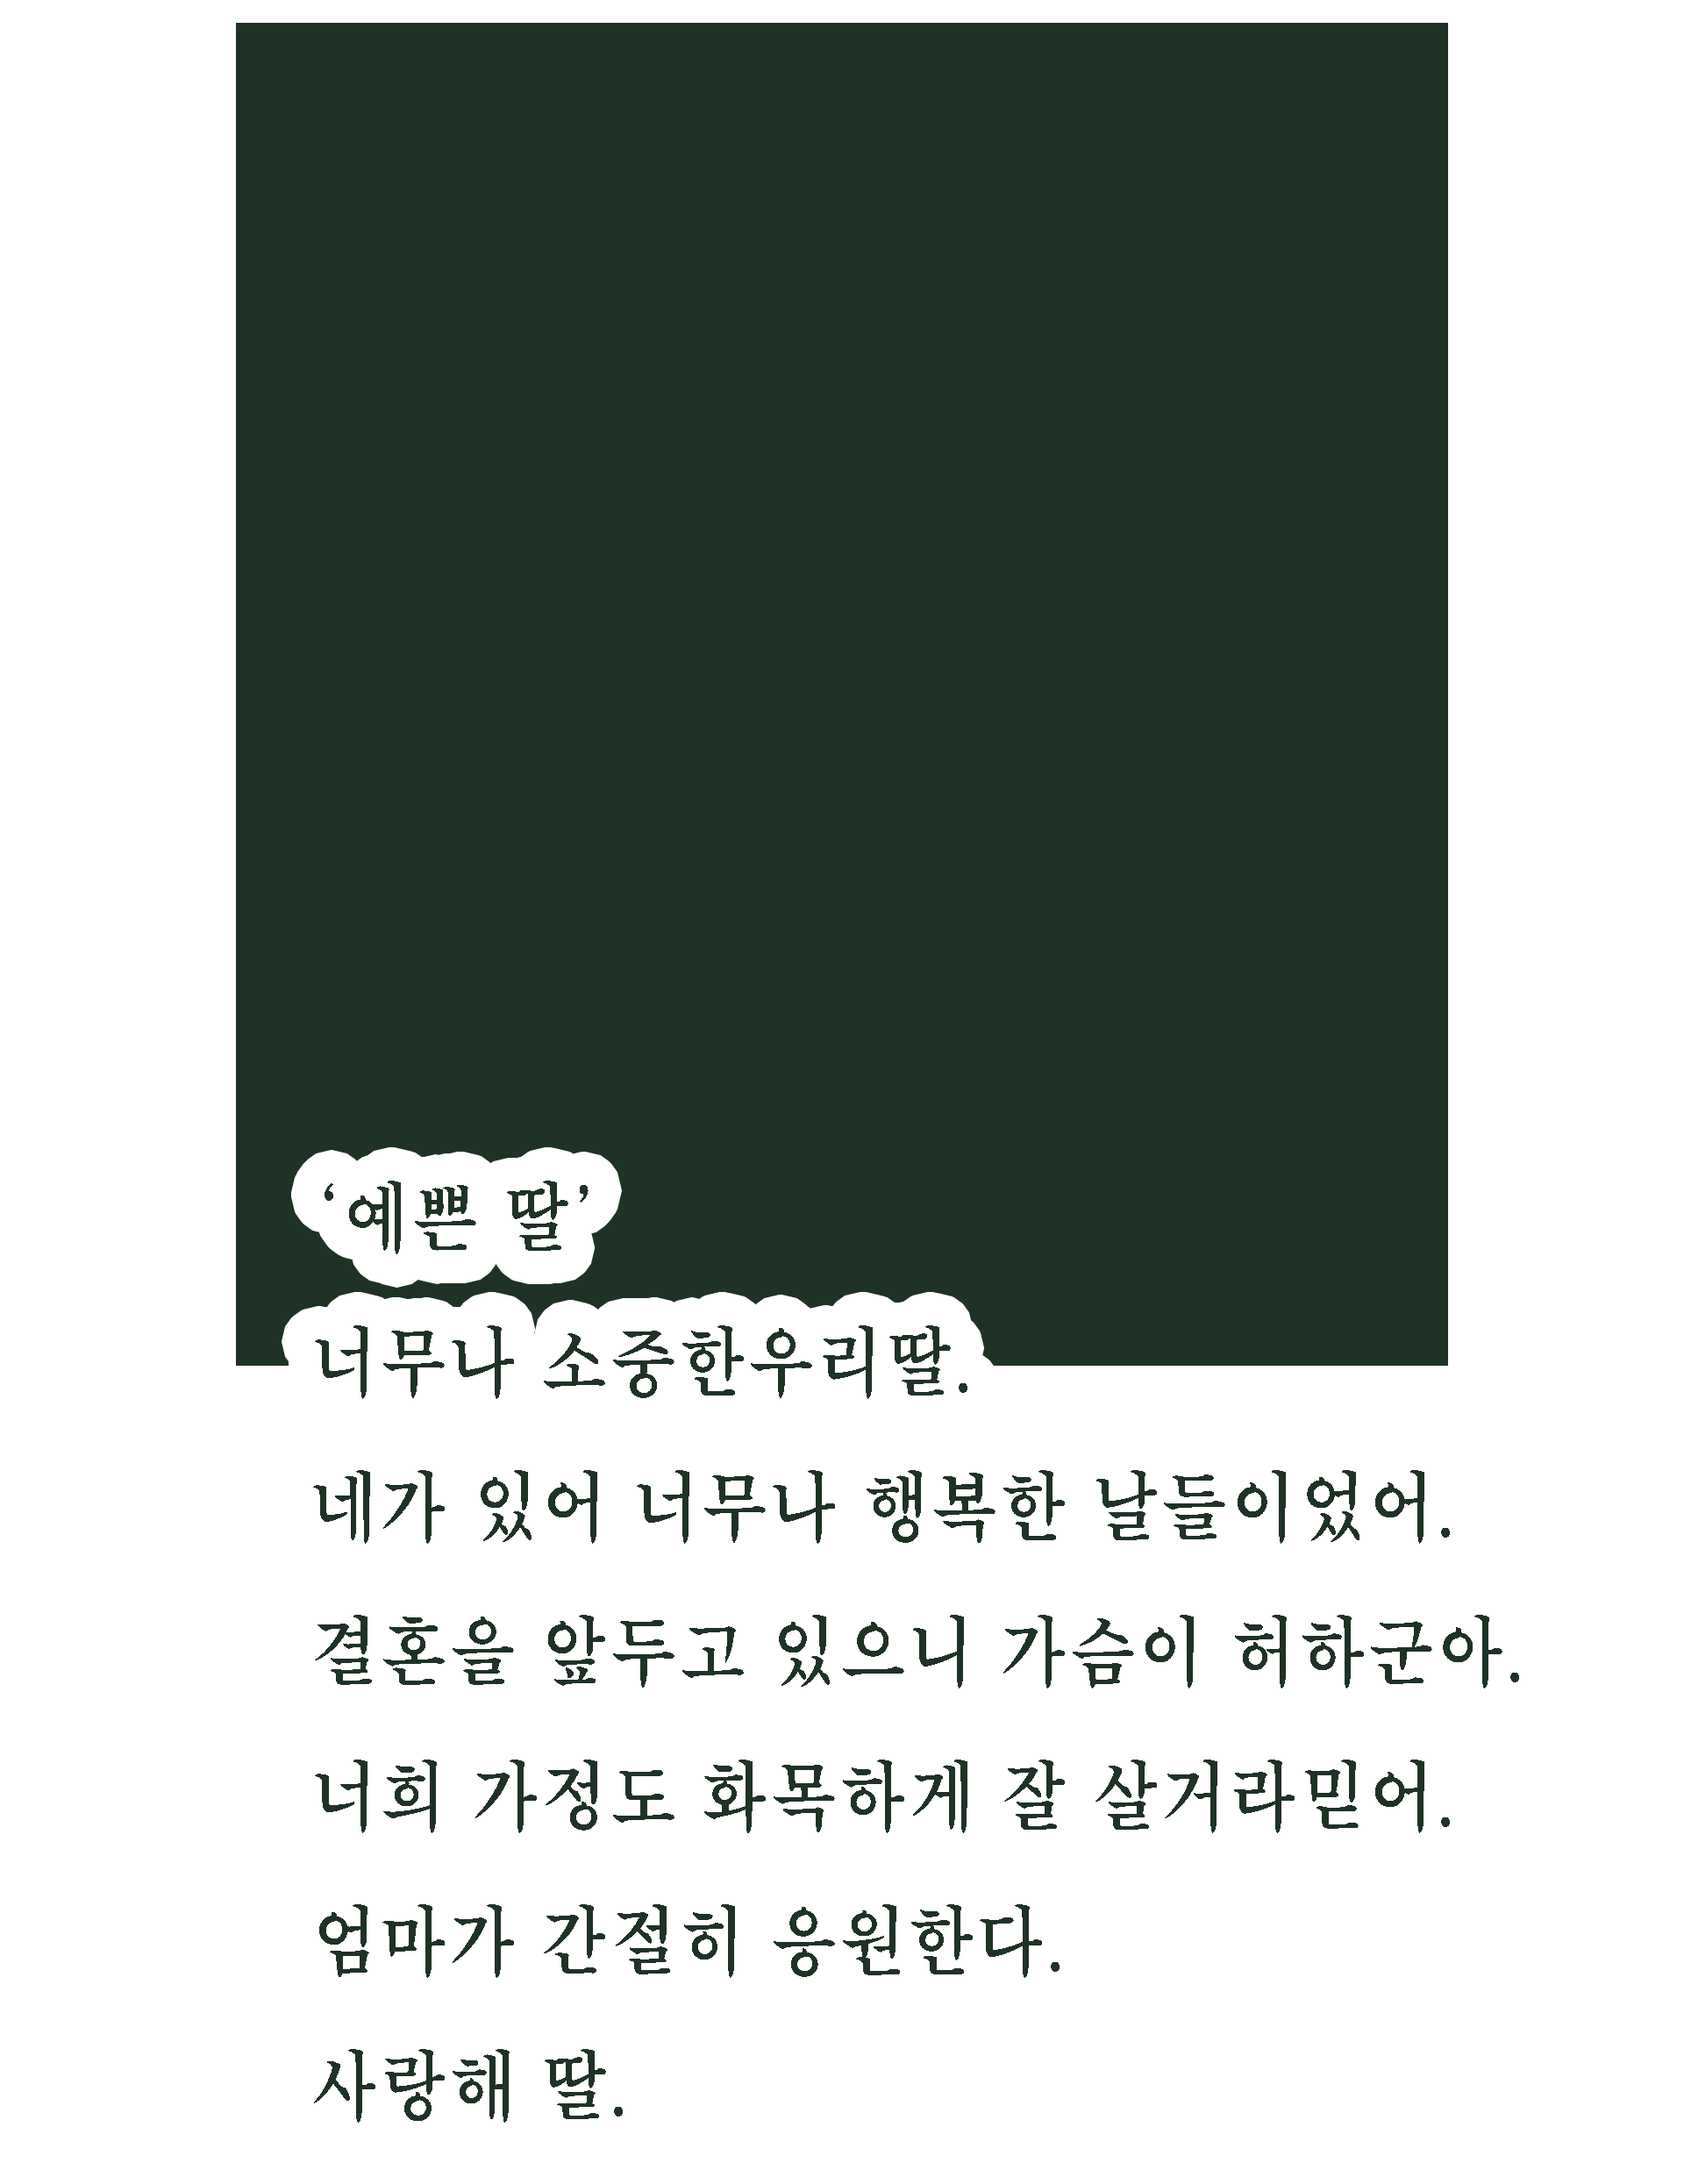
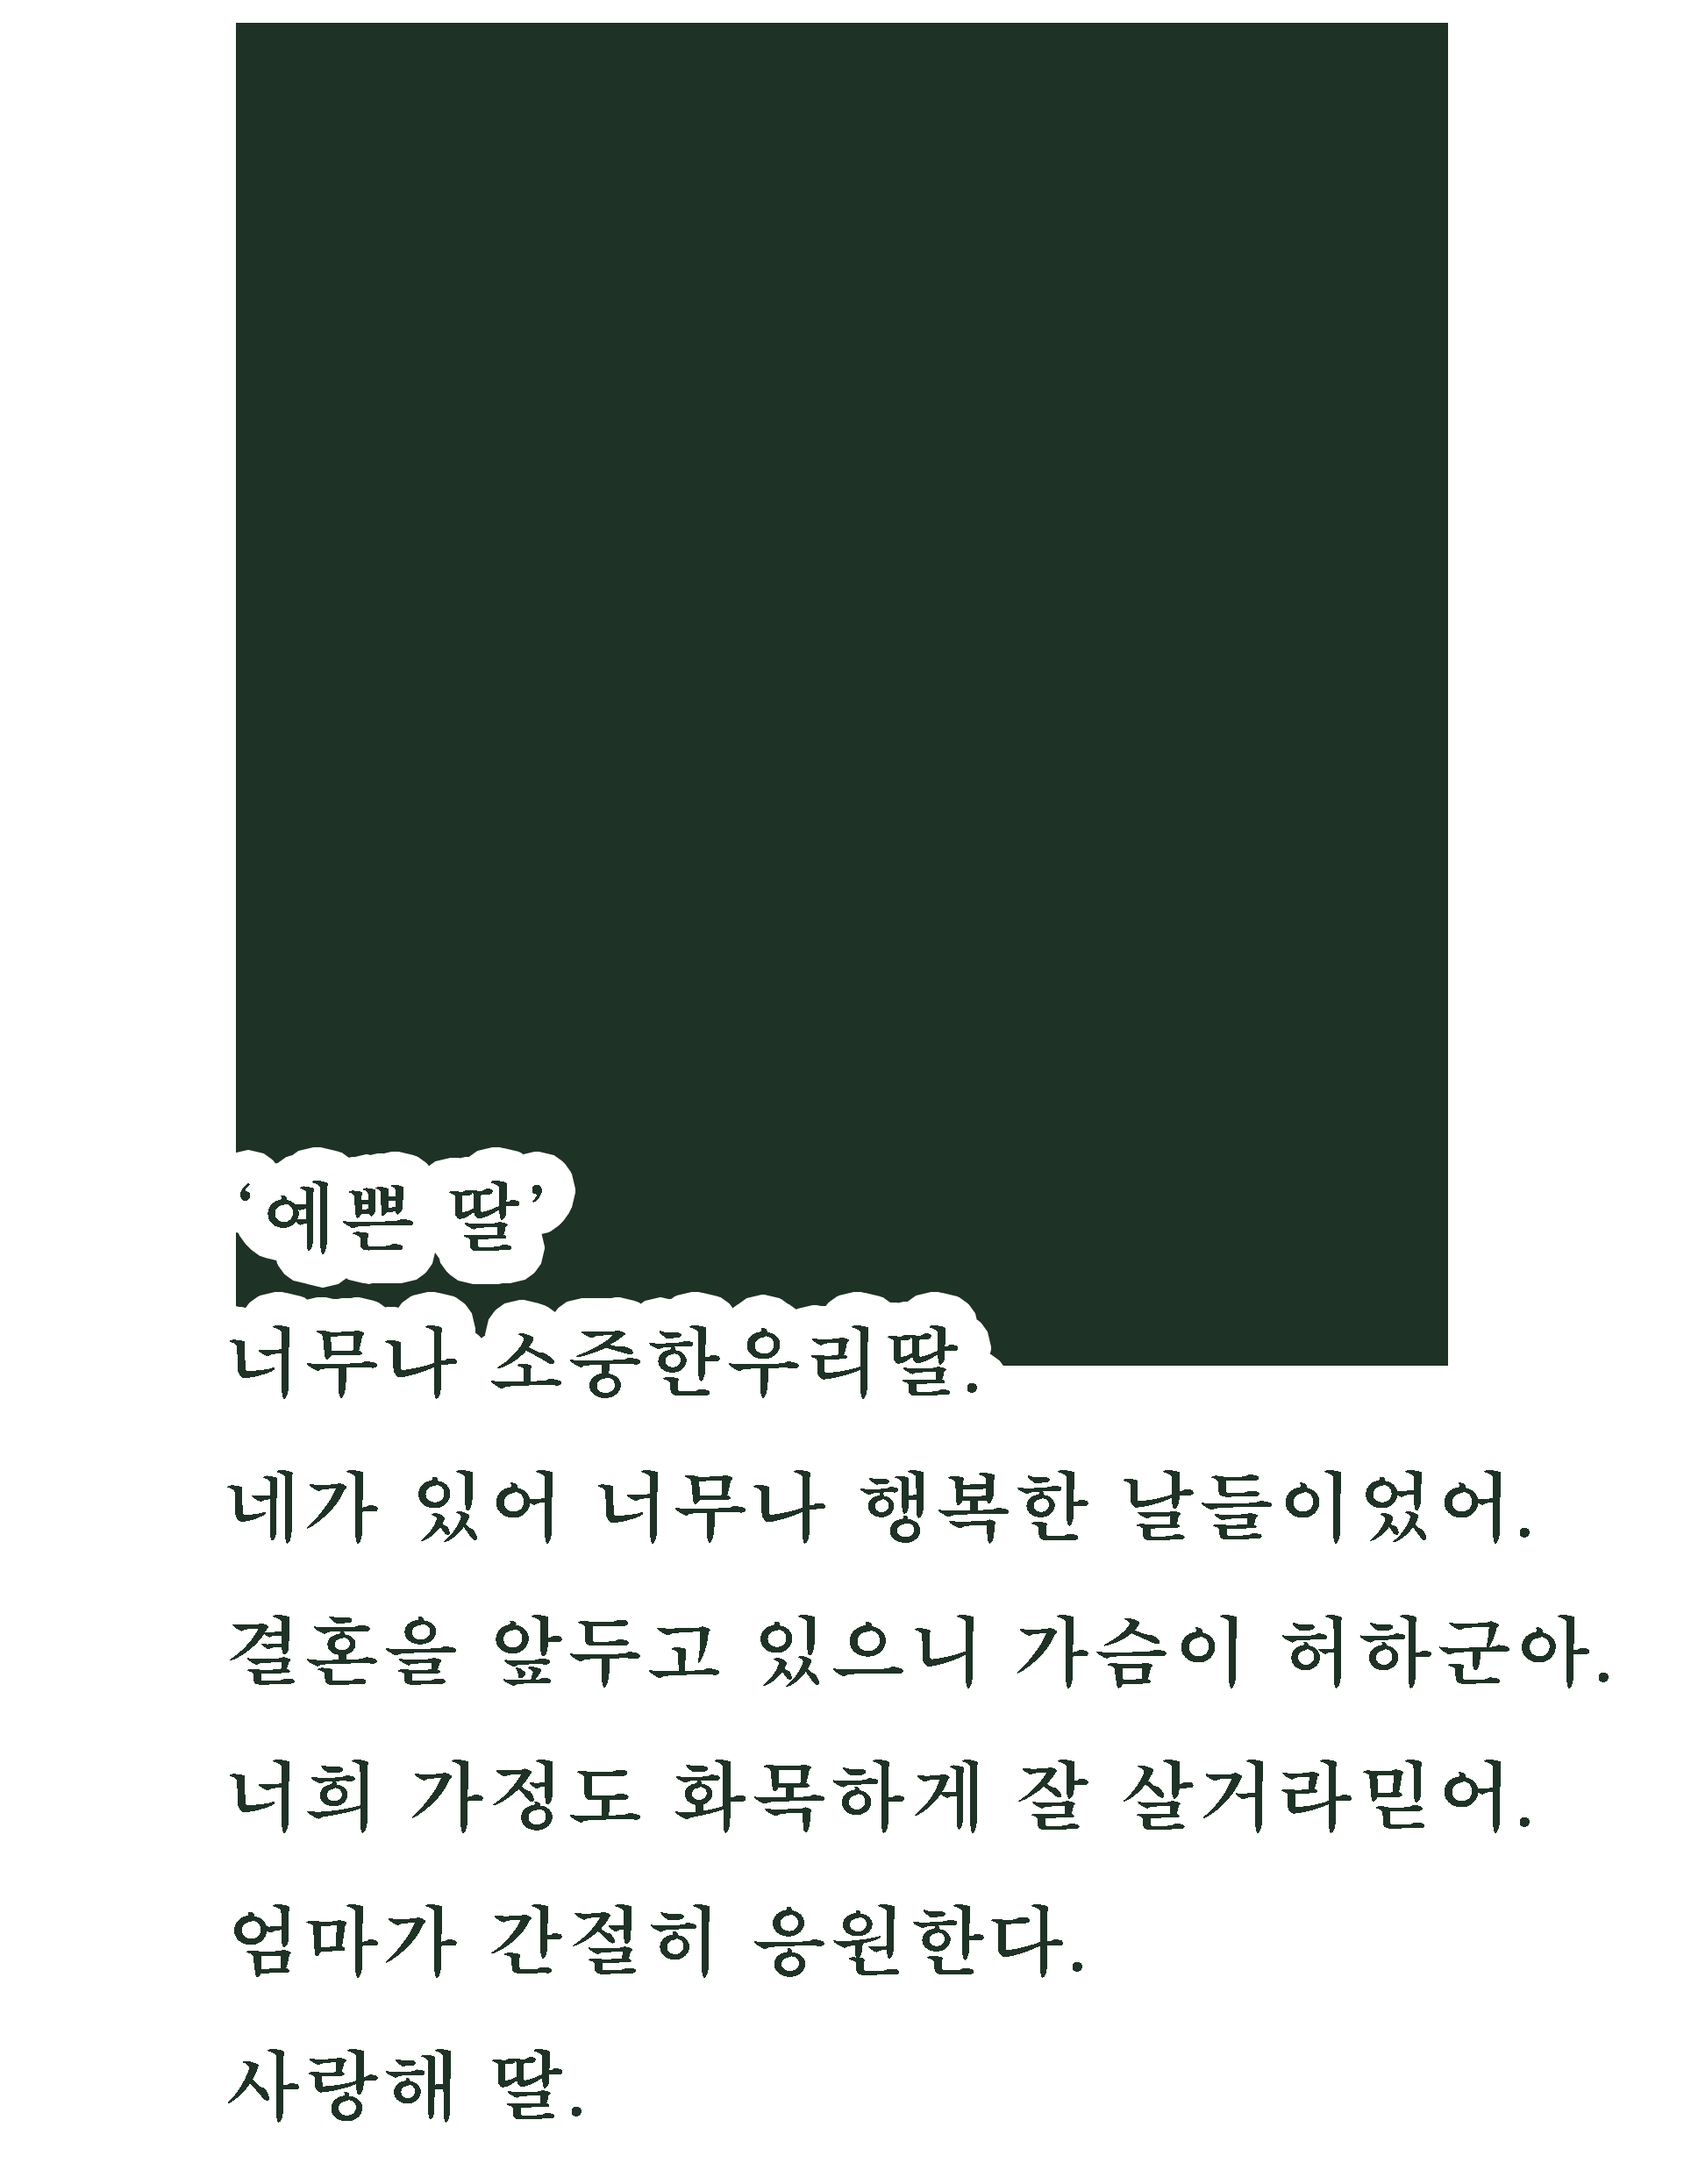
Add files via upload

diff --git a/sunghunheeae/index.html b/sunghunheeae/index.html
@@ -16,22 +16,31 @@
     <meta property="og:title" content="sunghunheeae" />
     <meta property="og:description" content="sunghunheeae" />
     <meta property="og:keyword" content="sunghunheeae" />
-    <meta property="og:image" content="image/favicon/ogthumb.png" />
+    <meta property="og:image" content="image/ogthumb.jpg" />
     <meta property="og:url" content="http://hheeaaee.github.io/sunghunheeae" />
+
+    <!-- LightGallery CSS -->
+    <link rel="stylesheet" href="https://cdn.jsdelivr.net/npm/lightgallery@2.7.1/css/lightgallery-bundle.min.css" />
+    
+    <!-- LightGallery JS -->
+    <script src="https://cdn.jsdelivr.net/npm/lightgallery@2.7.1/lightgallery.min.js"></script>
+    <script src="https://cdn.jsdelivr.net/npm/lightgallery@2.7.1/plugins/thumbnail/lg-thumbnail.min.js"></script>
 </head>
 
 <body>
     <div class="wrap">
         <div class="main">
-            <div class="main_img"><img src="./image/main_img.jpg" alt="main_img"></div>
+            <div class="main_img">
+                <img src="./image/main_img.png" alt="main_img">
+            </div>
             <div class="bgm"></div>
         </div>
         <div class="date">
             <div class="date_top">20250628</div>
             <div class="date_txt">
-                <p>2025.06.28 SAT</p>
-                <p></p>
-                <p>대전 유성구 엑스포로 1</p>
+                <p>2025.06.28 SAT 11:40AM</p>
+                <p>스튜디오 더룸</p>
+                <p>대전 유성구 유성대로1689번길 36-2</p>
             </div>
         </div>
         <div class="invite_card">
@@ -42,12 +51,12 @@
         </div>
         <div class="name">
             <div class="groom_name">
-                <span>Groom</s>
-                <span>Ahn Jae Jin</span>
+                <p class="fwb">Groom</p>
+                <p>Ahn Jae Jin</p>
             </div>
             <div class="bride_name">
-                <span>Groom</s>
-                <span>Gwon Jung Eun</span>
+                <p class="fwb">bride</p>
+                <p>Gwon Jung Eun</p>
             </div>
         </div>
         <div class="picture">
@@ -55,24 +64,74 @@
         </div>
         <div class="parents_comment">
             <div class="groom_parents">
-                <p>Groom's Parents</p>
+                <p class="fwb">Groom's Parents</p>
                 <div class="groom_comment_img">
                     <img src="./image/groom_parents.png" alt="groom_parents_comment">
                 </div>
             </div>
             <div class="bride_parents">
-                <p>bride's Parents</p>
+                <p class="fwb">Bride's Parents</p>
                 <div class="groom_comment_img">
                     <img src="./image/bride_parents.png" alt="bride_parents_comment">
                 </div>
             </div>
         </div>
-        <div class="video"></div>
-        <div class="we_comment">
-            <div class="bride_comment"></div>
-            <div class="groom_comment"></div>
+       <div class="video-container">
+            <div class="video-wrapper">
+                <iframe src="https://www.youtube.com/embed/kLiQ3RPdDtE"
+                        allowfullscreen
+                        frameborder="0"
+                        allow="accelerometer; autoplay; clipboard-write; encrypted-media; gyroscope; picture-in-picture; web-share"
+                        referrerpolicy="strict-origin-when-cross-origin">
+                </iframe>
+            </div>
         </div>
-        <div class="12cut"></div>
+        <div class="we_comment">
+            <div class="bride_comment">
+                <img src="./image/bride_comment.jpg" alt="bride_comment">
+            </div>
+            <div class="groom_comment">
+                <img src="./image/groom_comment.jpg" alt="bride_comment">
+            </div>
+        </div>
+        <div class="lightgallery">
+            <a href="img1.jpg">
+                <img src="thumb1.jpg">
+            </a>
+            <a href="img2.jpg">
+                <img src="thumb1.jpg">
+            </a>
+            <a href="img3.jpg">
+                <img src="thumb1.jpg">
+            </a>
+            <a href="img4.jpg">
+                <img src="thumb1.jpg">
+            </a>
+            <a href="img5.jpg">
+                <img src="thumb1.jpg">
+            </a>
+            <a href="img6.jpg">
+                <img src="thumb1.jpg">
+            </a>
+            <a href="img7.jpg">
+                <img src="thumb1.jpg">
+            </a>
+            <a href="img8.jpg">
+                <img src="thumb1.jpg">
+            </a>
+            <a href="img9.jpg">
+                <img src="thumb1.jpg">
+            </a>
+            <a href="img10.jpg">
+                <img src="thumb1.jpg">
+            </a>
+            <a href="img11.jpg">
+                <img src="thumb1.jpg">
+            </a>
+            <a href="img12.jpg">
+                <img src="thumb1.jpg">
+            </a>
+        </div>
         <div class="calrendar"></div>
         <div class="heart">
             <div class="to_groom_parents"></div>

diff --git a/sunghunheeae/css/style.css b/sunghunheeae/css/style.css
@@ -1,7 +1,104 @@
 @charset "UTF-8";
-
 .wrap{
     max-width: 400px;
     margin: 0 auto;
+    text-align: center;
+    font-size: 14px;
 }
+
 img{ width: 100%;}
+
+/* main */
+.main{
+    margin-bottom: 80px;
+}
+
+/* date */
+.date{
+    margin-bottom: 70px;
+}
+.date_top{
+    font-family: 'BookkMyungjo-Bd';
+    display: inline-block;
+    padding: 0.9em 2.3em;
+    border: 1px solid #99d0ff;   
+    border-radius: 60px / 23px;
+    font-size: 11px;
+    background-color: transparent;
+    color: #99d0ff;
+    margin-bottom: 8px;
+}
+
+/* invite_card */
+.invite_card{
+    max-width: 264px;
+    margin: 0 auto;
+    margin-bottom: 50px;
+}
+
+/* comment */
+.comment{
+    margin-bottom: 40px;
+}
+
+/* name */
+.name{
+    margin-bottom: 70px;
+}
+.groom_name{
+    margin-bottom: 25px;
+}
+.fwb{
+    font-weight: bold;
+}
+
+/* picture */
+
+/* parents_comment */
+.parents_comment p{
+    margin-bottom: 10px;
+}
+
+.groom_parents{
+    margin-bottom: 70px;
+}
+
+.parents_comment{
+    background-color: #99d0ff;
+    padding: 80px 0;
+    color: #121212;
+}
+
+/* video */
+.video-container {
+  background-color: #121212;    
+  padding: 3rem 2rem;        
+  display: flex;             
+  justify-content: center;
+}
+
+.video-wrapper {
+  position: relative;
+  width: 100%;
+  max-width: 400px;
+  /* padding-bottom: 42.5%; */
+  padding-bottom: 80%;      
+  height: 0;
+  overflow: hidden;
+}
+
+.video-wrapper iframe {
+  position: absolute;
+  top: 0;
+  left: 0;
+  width: 100%;
+  height: 100%;
+}
+
+/* we_comment */
+.we_comment{
+    background-color: #fff;
+}
+.bride_comment{
+    margin-bottom: 50px;
+}

diff --git a/sunghunheeae/css/reset.css b/sunghunheeae/css/reset.css
@@ -5,14 +5,21 @@
     font-style: normal;
 }
 
+@font-face {
+    font-family: 'BookkMyungjo-Bd';
+    src: url('https://fastly.jsdelivr.net/gh/projectnoonnu/noonfonts_2302@1.0/BookkMyungjo-Bd.woff2') format('woff2');
+    font-weight: 700;
+    font-style: normal;
+}
+
 * {
     padding: 0;
     margin: 0;
     box-sizing: border-box;
 }
 body {
-    color: #222;
-    background: #fff;
+    color: #fff;
+    background: #121212;
     line-height: 1.6;
     font-family: 'Pretendard-Regular';
     overflow-x: hidden;

diff --git a/sunghunheeae/js/js.js b/sunghunheeae/js/js.js
@@ -1,0 +1,6 @@
+document.addEventListener("DOMContentLoaded", function () {
+  lightGallery(document.getElementById('lightgallery'), {
+    plugins: [lgThumbnail],
+    thumbnail: true
+  });
+});
